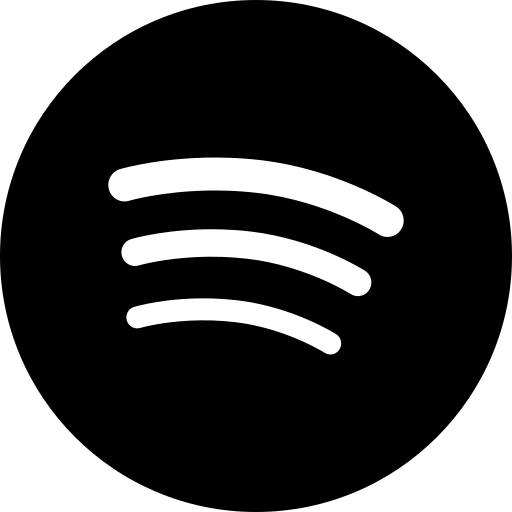
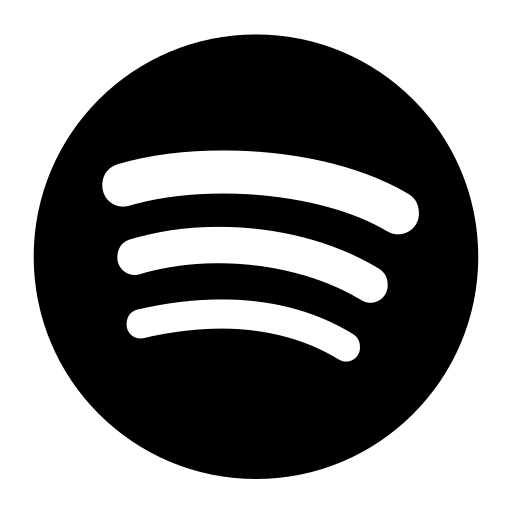
ci: social media linking capabilities for artists

diff --git a/pages/artist/[slug].tsx b/pages/artist/[slug].tsx
@@ -16,36 +16,58 @@ const ArtistPage: NextPageWithLayout = ({ artist }: Props) => {
     <main>
       <div className="flex flex-col">
         {artist && (
-          <div className="xl:border-2 xl:border-black bg-black text-white max-w-4xl xl:max-w-6xl mx-auto lg:mt-4 xl:my-10 flex flex-col xl:flex-row xl:mt-20">
-            <div className="flex flex-col relative xl:m-4 xl:w-full">
+          <div className="xl:border-2 xl:border-black xl:bg-black xl:text-white max-w-4xl xl:max-w-6xl mx-auto lg:mt-4 xl:my-10 flex flex-col xl:flex-row xl:mt-20">
+            <div className="flex flex-col relative xl:mx-4 xl:w-full">
               <div className="xl:visible h-0 xl:h-full invisible">
-                <h1 className="text-2xl text-left my-2 font-bold px-4 md:p-0">
-                  {artist.title}
+                <h1 className="text-3xl text-left my-2 font-bold px-4 md:p-0">
+                  {artist.title.toUpperCase()}
                 </h1>
               </div>
-              <div className="">
+              <div className="flex xl:border-white xl:border-2">
                 <Image
                   width="1600"
                   height="1000"
-                  className="top-0 w-full object-cover"
+                  className="w-full object-cover h-fit"
                   src={urlFor(artist.mainImage).url()!}
                   alt="artist photo"
                 />
               </div>
               <div className="xl:visible h-0 xl:h-full invisible">
-                <p className="text-lg text-left mb-2 px-4 md:p-0">
+                <p className="text-lg text-left px-4 md:py-2 xl:italic">
                   {artist.city.title}
                 </p>
               </div>
             </div>
-            <article className="p-4 lg:p-0 xl:w-full xl:m-4 xl:self-center">
+            <article className="p-4 lg:px-0 xl:w-full xl:m-4 xl:flex xl:flex-col xl:justify-between xl:h-full">
               <div className="xl:invisible xl:h-0 h-full">
                 <h1 className="text-2xl text-left mb-4 font-bold">
                   {artist.title}
                 </h1>
                 <p className="text-lg text-left mb-2">{artist.city.title}</p>
               </div>
-              <div className="">
+              <div className="flex my-6">
+                {artist.ig && (
+                  <a
+                    href={artist.ig}
+                    className="xl:bg-blue-600 xl:border-blue-600 mr-2 w-12 h-12 border rounded-full text-center bg-white border-white hover:bg-white hover:border-white"
+                  >
+                    <img className="" src="/ig.png" alt="instagram logo" />
+                  </a>
+                )}
+                {artist.spotify && (
+                  <a
+                    href={artist.spotify}
+                    className="mr-2 bg-white bg-blue-600 border-blue-600 xl:bg-blue-600 w-12 h-12 rounded-full text-center hover:bg-white hover:border-white"
+                  >
+                    <img
+                      className="scale-110"
+                      src="/spotify.png"
+                      alt="spotify logo"
+                    />
+                  </a>
+                )}
+              </div>
+              <div className="flex">
                 <PortableText
                   dataset={process.env.NEXT_PUBLIC_SANITY_DATASET}
                   projectId={process.env.NEXT_PUBLIC_SANITY_PROJECT_ID}
@@ -108,6 +130,8 @@ export const getStaticProps: GetStaticProps = async ({ params }) => {
     mainImage,
     slug,
     body,
+    spotify,
+    ig,
   }`;
 
   const artist = await sanityClient.fetch(query, {

diff --git a/components/navigation/Footer.tsx b/components/navigation/Footer.tsx
@@ -88,7 +88,11 @@ const Footer: React.FC<IFooter> = () => {
                 href="https://open.spotify.com/playlist/0C0lAkSWHW6f6joaHWdjbR?si=19c0100537bd465b"
                 className="w-10 h-10 border border-2 border-gray-400 rounded-full text-center hover:bg-blue-600 hover:border-blue-600"
               >
-                <img className="" src="/spotify.png" alt="spotify logo" />
+                <img
+                  className="scale-110"
+                  src="/spotify.png"
+                  alt="spotify logo"
+                />
               </a>
             </div>
           </div>

diff --git a/typings.d.ts b/typings.d.ts
@@ -36,4 +36,6 @@ export interface Artist {
     };
   };
   body: [object];
+  ig: string;
+  spotify: string;
 }
